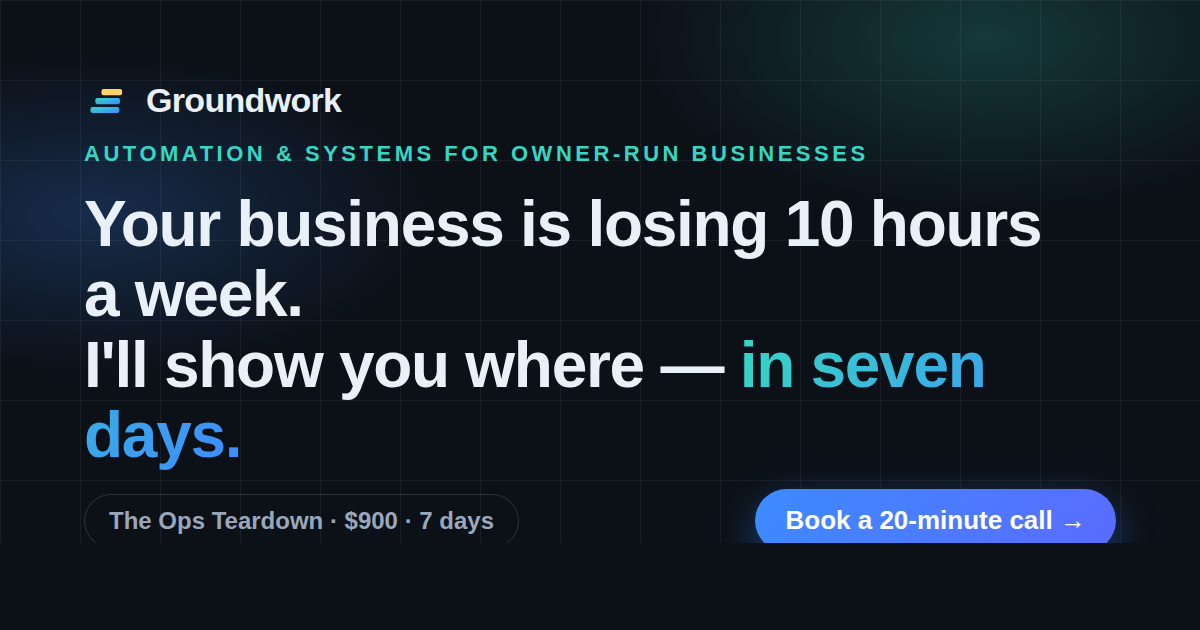
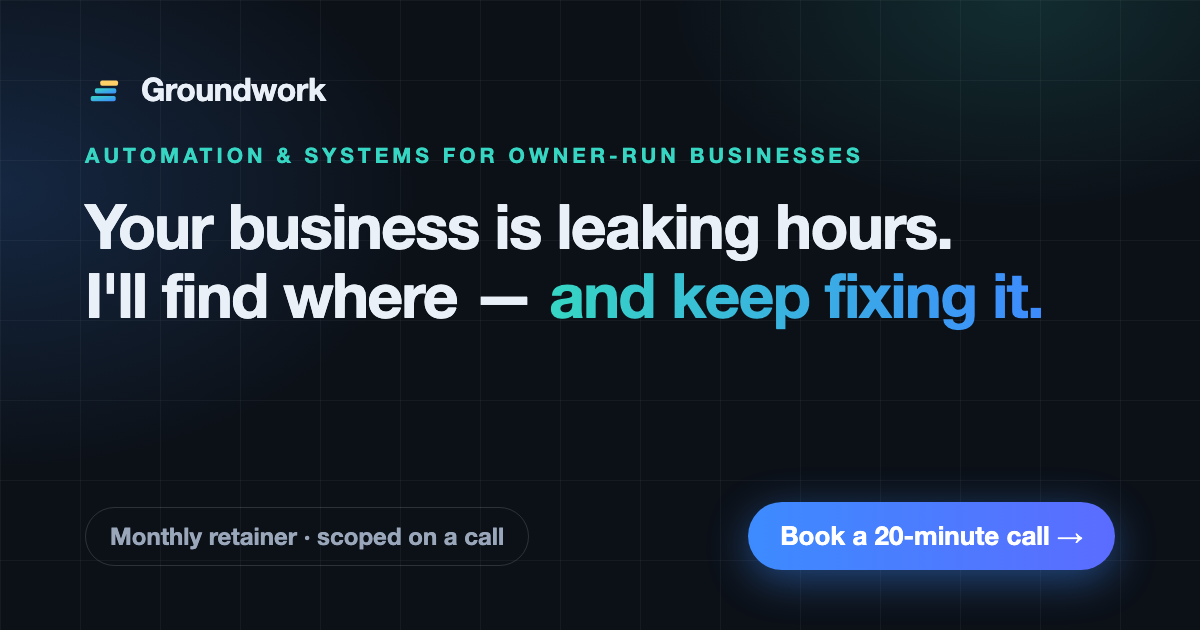
Replace the $900 Ops Teardown with the monthly retainer offer
The teardown and the Sprint ladder are retired. Hero, offer section,
metadata, JSON-LD, sticky bar and share image now point visitors to
booking a call about the monthly retainer (price set on the call,
first three months, then one month's notice).

diff --git a/index.html b/index.html
@@ -5,21 +5,21 @@
 <meta name="viewport" content="width=device-width, initial-scale=1.0" />
 <title>Groundwork — I find the hours your business loses, and automate them</title>
 <!-- Groundwork site, deployed from GitHub via Vercel -->
-<meta name="description" content="I find the manual, repetitive work your business loses hours to every week — and I automate it away. The first automation goes live in seven days. Book a 20-minute call." />
+<meta name="description" content="I find the manual, repetitive work your business loses hours to every week, automate it away, and keep improving it month after month. Book a 20-minute call." />
 <link rel="canonical" href="https://groundwork-woad.vercel.app/" />
 
 <!-- Open Graph / social (WhatsApp, LinkedIn) -->
 <meta property="og:type" content="website" />
 <meta property="og:site_name" content="Groundwork" />
-<meta property="og:title" content="Your business is losing 10 hours a week. I'll show you where — in seven days." />
-<meta property="og:description" content="I map how your business actually runs, find where the hours leak, and build the automation that stops it. First one goes live in week one. Book a 20-minute call." />
+<meta property="og:title" content="Your business is leaking hours. I'll find where — and keep fixing it." />
+<meta property="og:description" content="I map how your business actually runs, find where the hours leak, and build the automation that stops it, then keep improving it every month. Book a 20-minute call." />
 <meta property="og:url" content="https://groundwork-woad.vercel.app/" />
 <meta property="og:image" content="https://groundwork-woad.vercel.app/og.png" />
 <meta property="og:image:width" content="1200" />
 <meta property="og:image:height" content="630" />
 <meta name="twitter:card" content="summary_large_image" />
-<meta name="twitter:title" content="Your business is losing 10 hours a week. I'll show you where — in seven days." />
-<meta name="twitter:description" content="I find the manual work your business loses hours to, and automate it. First automation live in week one." />
+<meta name="twitter:title" content="Your business is leaking hours. I'll find where — and keep fixing it." />
+<meta name="twitter:description" content="I find the manual work your business loses hours to, automate it, and keep improving it on a monthly retainer." />
 <meta name="twitter:image" content="https://groundwork-woad.vercel.app/og.png" />
 <meta name="theme-color" content="#0c1118" />
 
@@ -34,18 +34,15 @@
   "name": "Groundwork",
   "url": "https://groundwork-woad.vercel.app/",
   "image": "https://groundwork-woad.vercel.app/og.png",
-  "description": "I find the manual, repetitive work owner-run businesses lose hours to every week, and I automate it. The first automation goes live in seven days.",
-  "priceRange": "$900+",
+  "description": "I find the manual, repetitive work owner-run businesses lose hours to every week, automate it, and keep improving it on a monthly retainer.",
   "email": "yuval@arenna.co",
   "founder": { "@type": "Person", "name": "Yuval" },
   "areaServed": "Worldwide",
   "serviceType": ["Business systemization", "Workflow automation", "AI agents"],
   "makesOffer": {
     "@type": "Offer",
-    "name": "The Ops Teardown",
-    "description": "A 7-day fixed-price engagement: I map how the business runs, cost the three biggest time leaks, and build one automation live before the week ends.",
-    "price": "900",
-    "priceCurrency": "USD"
+    "name": "Monthly operating retainer",
+    "description": "An ongoing monthly engagement: I map how the business runs, find where the hours leak, automate the biggest leaks, and measure what changed. Scoped and priced on a 20-minute call."
   }
 }
 </script>
@@ -292,7 +289,7 @@
   <div class="wrap nav-inner">
     <a href="#top" class="logo"><svg class="mark" viewBox="0 0 64 64" width="28" height="26" aria-hidden="true"><defs><linearGradient id="lgN" x1="0" y1="0" x2="1" y2="1"><stop offset="0" stop-color="#36d6c3"/><stop offset="1" stop-color="#3d8bff"/></linearGradient></defs><rect x="8" y="42" width="42" height="9" rx="3" fill="url(#lgN)"/><rect x="15" y="29" width="36" height="9" rx="3" fill="url(#lgN)"/><rect x="24" y="16" width="30" height="9" rx="3" fill="#ffd166"/></svg> Groundwork</a>
     <nav class="nav-links" aria-label="Primary">
-      <a href="#offer">The teardown</a>
+      <a href="#offer">The retainer</a>
       <a href="#method">How I work</a>
       <a href="#work">Work</a>
       <a href="#about">About</a>
@@ -310,11 +307,11 @@
     <div class="hero-grid">
       <div class="hero-inner">
         <span class="eyebrow">Automation &amp; systems for owner-run businesses</span>
-        <h1 id="hero-h">Your business is losing 10 hours a week. I'll show you where — <span class="hl">in seven days.</span></h1>
-        <p class="lead">Most small businesses don't need more software. They need the manual, repetitive, "only I know how to do this" work taken off people's hands. I map how your business actually runs, find where the hours leak, and build the automation that stops it. First one goes live in week one.</p>
+        <h1 id="hero-h">Your business is leaking hours. I'll find where — <span class="hl">and keep fixing it.</span></h1>
+        <p class="lead">Most small businesses don't need more software. They need the manual, repetitive, "only I know how to do this" work taken off people's hands. I map how your business actually runs, find where the hours leak, and build the automation that stops it. Then I keep going, month after month.</p>
         <div class="hero-cta">
           <a href="#book" class="btn btn-primary" data-book>Book a 20-minute call →</a>
-          <a href="#offer" class="btn btn-ghost">See the 7-day teardown</a>
+          <a href="#offer" class="btn btn-ghost">How the retainer works</a>
         </div>
         <p class="trust"><span class="tdot" aria-hidden="true"></span> Built for real estate, hospitality, sports &amp; marketplace businesses</p>
       </div>
@@ -399,44 +396,38 @@
   <div class="wrap">
     <div class="offer-card reveal">
       <div class="offer-inner">
-        <span class="offer-badge">Start here</span>
-        <h2 class="offer-h" id="offer-h">The Ops Teardown — <span class="price">$900</span>, seven days, something working at the end.</h2>
-        <p class="offer-sub">No proposal cycle, no discovery phase that bills for a month. One week, fixed price, and you finish with one manual job already automated.</p>
+        <span class="offer-badge">How we work together</span>
+        <h2 class="offer-h" id="offer-h">One monthly retainer. I find the leaks, fix them, and keep improving.</h2>
+        <p class="offer-sub">No fixed-price sprint, no report that sits in a drawer. Every month I look at where the hours go, ship the fixes that matter most, and show you what changed.</p>
 
         <div class="steps">
           <div class="step">
-            <div class="day">Day 1 — We map it</div>
-            <p>60 minutes on a call. I draw how work actually flows, including the parts nobody documents.</p>
+            <div class="day">Map it</div>
+            <p>We start with how work actually flows, including the parts nobody documents.</p>
           </div>
           <div class="step">
-            <div class="day">Days 2–3 — I find the leaks</div>
-            <p>You get the three biggest time drains, each costed in hours per week and dollars per month.</p>
+            <div class="day">Find the leaks</div>
+            <p>The biggest time drains, ranked, each with how we'll know it got better.</p>
           </div>
           <div class="step">
-            <div class="day">Days 4–6 — I build one</div>
-            <p>The highest-value automation gets built and connected to your real tools.</p>
+            <div class="day">Fix the biggest</div>
+            <p>Automations built and connected to your real tools, smallest useful change first.</p>
           </div>
           <div class="step">
-            <div class="day">Day 7 — It's running</div>
-            <p>You keep the map, the costing, and a live automation. Whether or not we work together again.</p>
+            <div class="day">Measure, repeat</div>
+            <p>Each month you see what changed and what comes next. Then we go again.</p>
           </div>
-        </div>
-
-        <div class="guarantee">
-          <span class="g-ic" aria-hidden="true">🛡</span>
-          <p>If I don't find at least <span>five hours a week</span> worth automating, you don't pay.</p>
         </div>
 
         <div class="offer-cta">
-          <a href="#book" class="btn btn-primary" data-book>Book the teardown →</a>
+          <a href="#book" class="btn btn-primary" data-book>Book a call about the retainer →</a>
         </div>
 
         <div class="ladder">
-          <div class="lh">Where it goes from here</div>
-          <div class="lrow"><span class="lstep">Entry</span><span class="lwhat">Ops Teardown</span><span class="lprice">$900 · 7 days</span></div>
-          <div class="lrow"><span class="lstep">Build</span><span class="lwhat">Systems Sprint — 2–4 automations shipped</span><span class="lprice">$3,500–6,000</span></div>
-          <div class="lrow"><span class="lstep">Keep</span><span class="lwhat">Operating retainer — I run and improve the system</span><span class="lprice">$1,500–2,500/mo</span></div>
-          <p class="note">The full teardown fee credits toward a Sprint if you book within 30 days.</p>
+          <div class="lh">How the retainer works</div>
+          <div class="lrow"><span class="lstep">Price</span><span class="lwhat">Set on the call, based on the size of the work</span><span class="lprice">Monthly</span></div>
+          <div class="lrow"><span class="lstep">Start</span><span class="lwhat">The first three months, so there's time to map, fix and measure</span><span class="lprice">3 months</span></div>
+          <div class="lrow"><span class="lstep">After</span><span class="lwhat">Month to month. Stop any time with one month's notice</span><span class="lprice">1 month notice</span></div>
         </div>
       </div>
     </div>
@@ -684,7 +675,7 @@
     <div class="cta-box reveal">
       <span class="eyebrow">Book a call</span>
       <h2 id="book-h">Twenty minutes. Bring your worst process.</h2>
-      <p>Tell me the job in your business that eats the most time and shouldn't. I'll tell you on the call whether it can be automated, roughly what it costs, and how long it takes. No deck, no pitch.</p>
+      <p>Tell me the job in your business that eats the most time and shouldn't. I'll tell you on the call whether it can be fixed, and how a monthly retainer would work for your business. No deck, no pitch.</p>
       <div class="cta-actions">
         <a href="https://cal.com/yuval/20min" class="btn btn-primary" data-book>Book a 20-minute call →</a>
         <a class="btn-wa" href="https://wa.me/13473011947?text=Hi%20Yuval%2C%20I%27d%20like%20to%20talk%20about%20automating%20a%20process%20in%20my%20business." target="_blank" rel="noopener">
@@ -708,7 +699,7 @@
 
 <!-- STICKY COMPACT CTA -->
 <div class="sticky-cta" id="stickyCta" role="region" aria-label="Book a call">
-  <span class="sc-text">Find 10 hours a week — in seven days.</span>
+  <span class="sc-text">Find the hours your business leaks.</span>
   <a href="https://cal.com/yuval/20min" class="btn btn-primary" data-book>Book a 20-min call →</a>
   <button class="sc-close" id="scClose" type="button" aria-label="Dismiss">×</button>
 </div>
